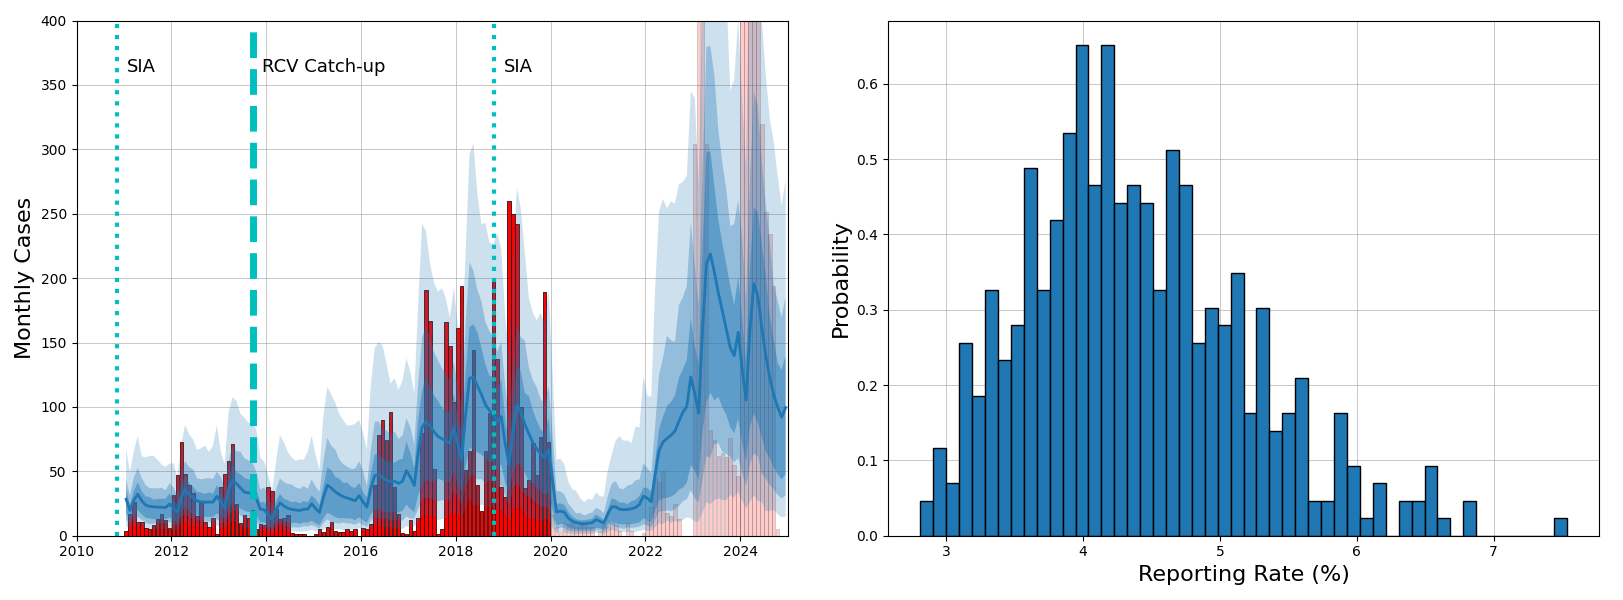
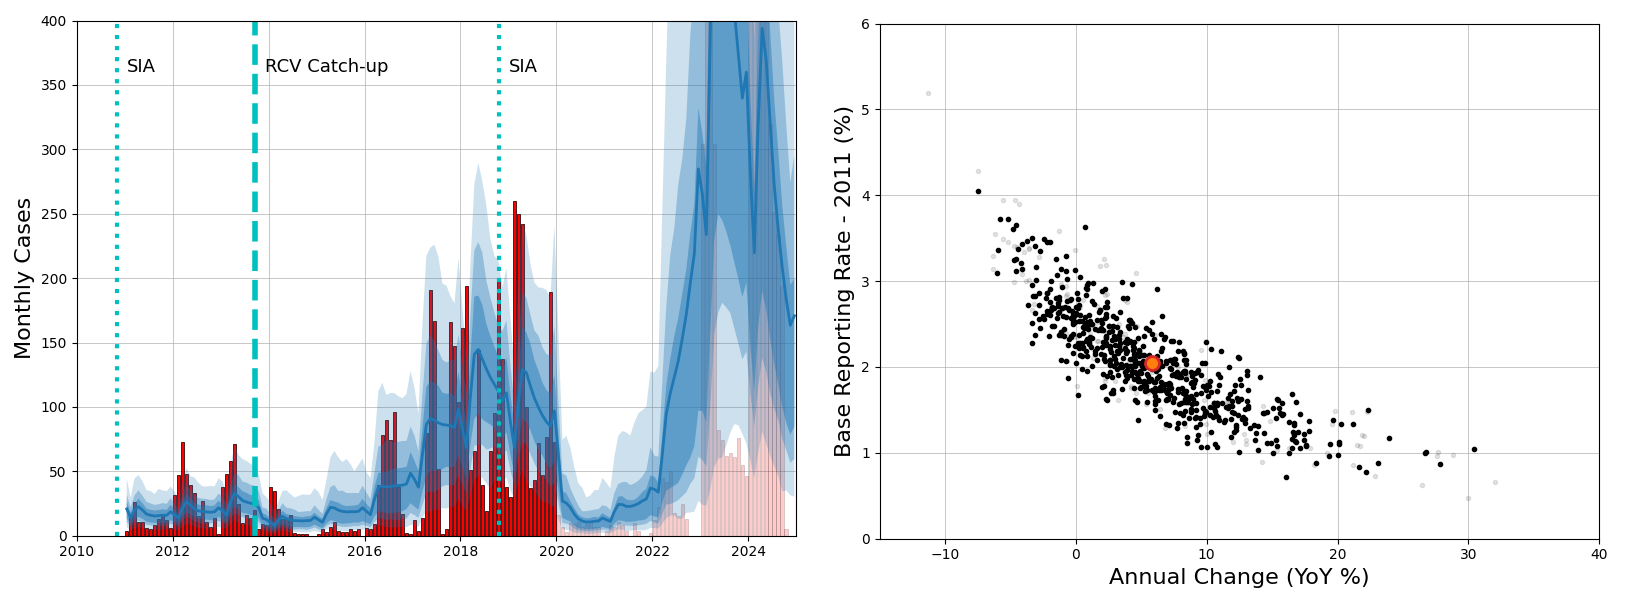
Doc updates

diff --git a/docs/examples/model_measles_gha01.md b/docs/examples/model_measles_gha01.md
@@ -14,11 +14,11 @@ Measles infectivity moved between nodes based on a gravity-type network model. A
 
 Each agent represented 25 individuals. Prevalence could fall to zero during the simulation, but exogeneous importation ensured long-term elimination did not occur. Importation probability was proportional to population. Simulations started in 2008. Outputs prior to 2011 were ignored because initial measles immunity is only roughly approximate and a few years of simulated time are required to establish internal consistency. Each simulation time step represents 5 days.
 
-Parameters in the baseline model were adjusted to fit observed timeseries of measles incidence. A Poisson-based likelihood function was maximized over one free parameter that scales total incidence and was interpreted as a reporting rate.
+Parameters in the baseline model were adjusted to fit observed timeseries of measles incidence. A Poisson-based likelihood function was maximized over two free parameters that scale total incidence; this scaling was interpreted as a reporting rate.
 
 ![Figure 3: Baseline timeseries and reporting rate](figures/ref_gha_timeseries.png)
 
-Posterior estimates suggest around 4% of measles infections are captured in case reports.
+Posterior estimates suggest around 2% of measles infections are captured in case reports, and a modest annual improvement to the reporting rate.
 
 Test scenarios implemented hypothetical regional outbreak response SIAs starting in 2022. These responses were triggered based on varying thresholds of observed cases. Spatially heterogeneous reporting rates were assumed with a mean reporting rate of 4%
 
